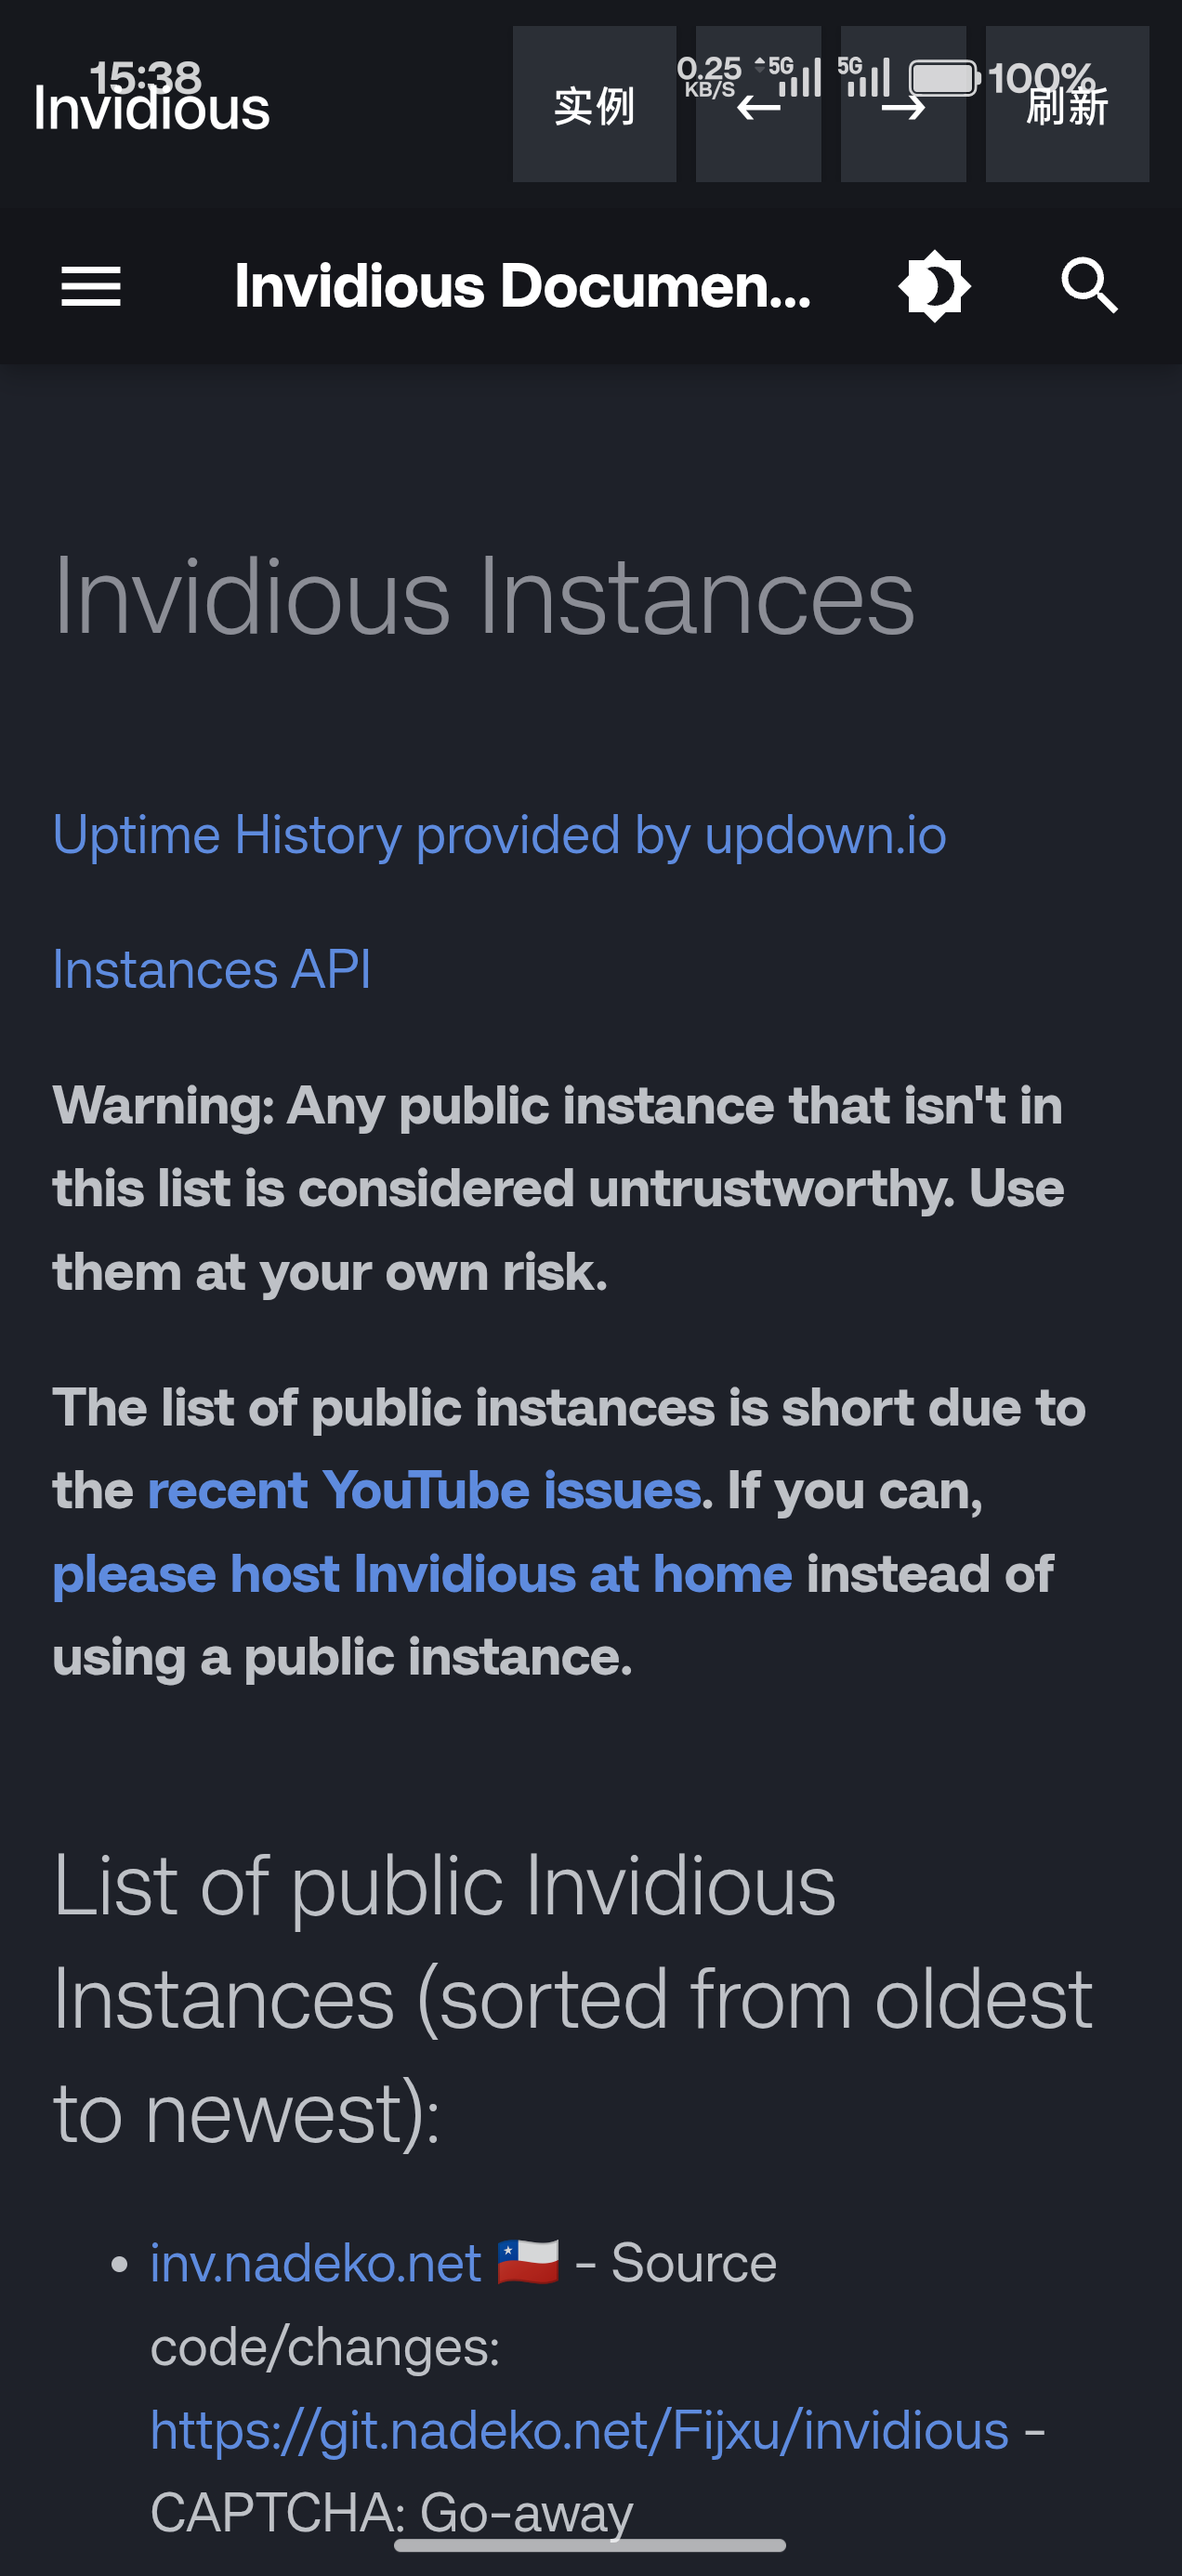
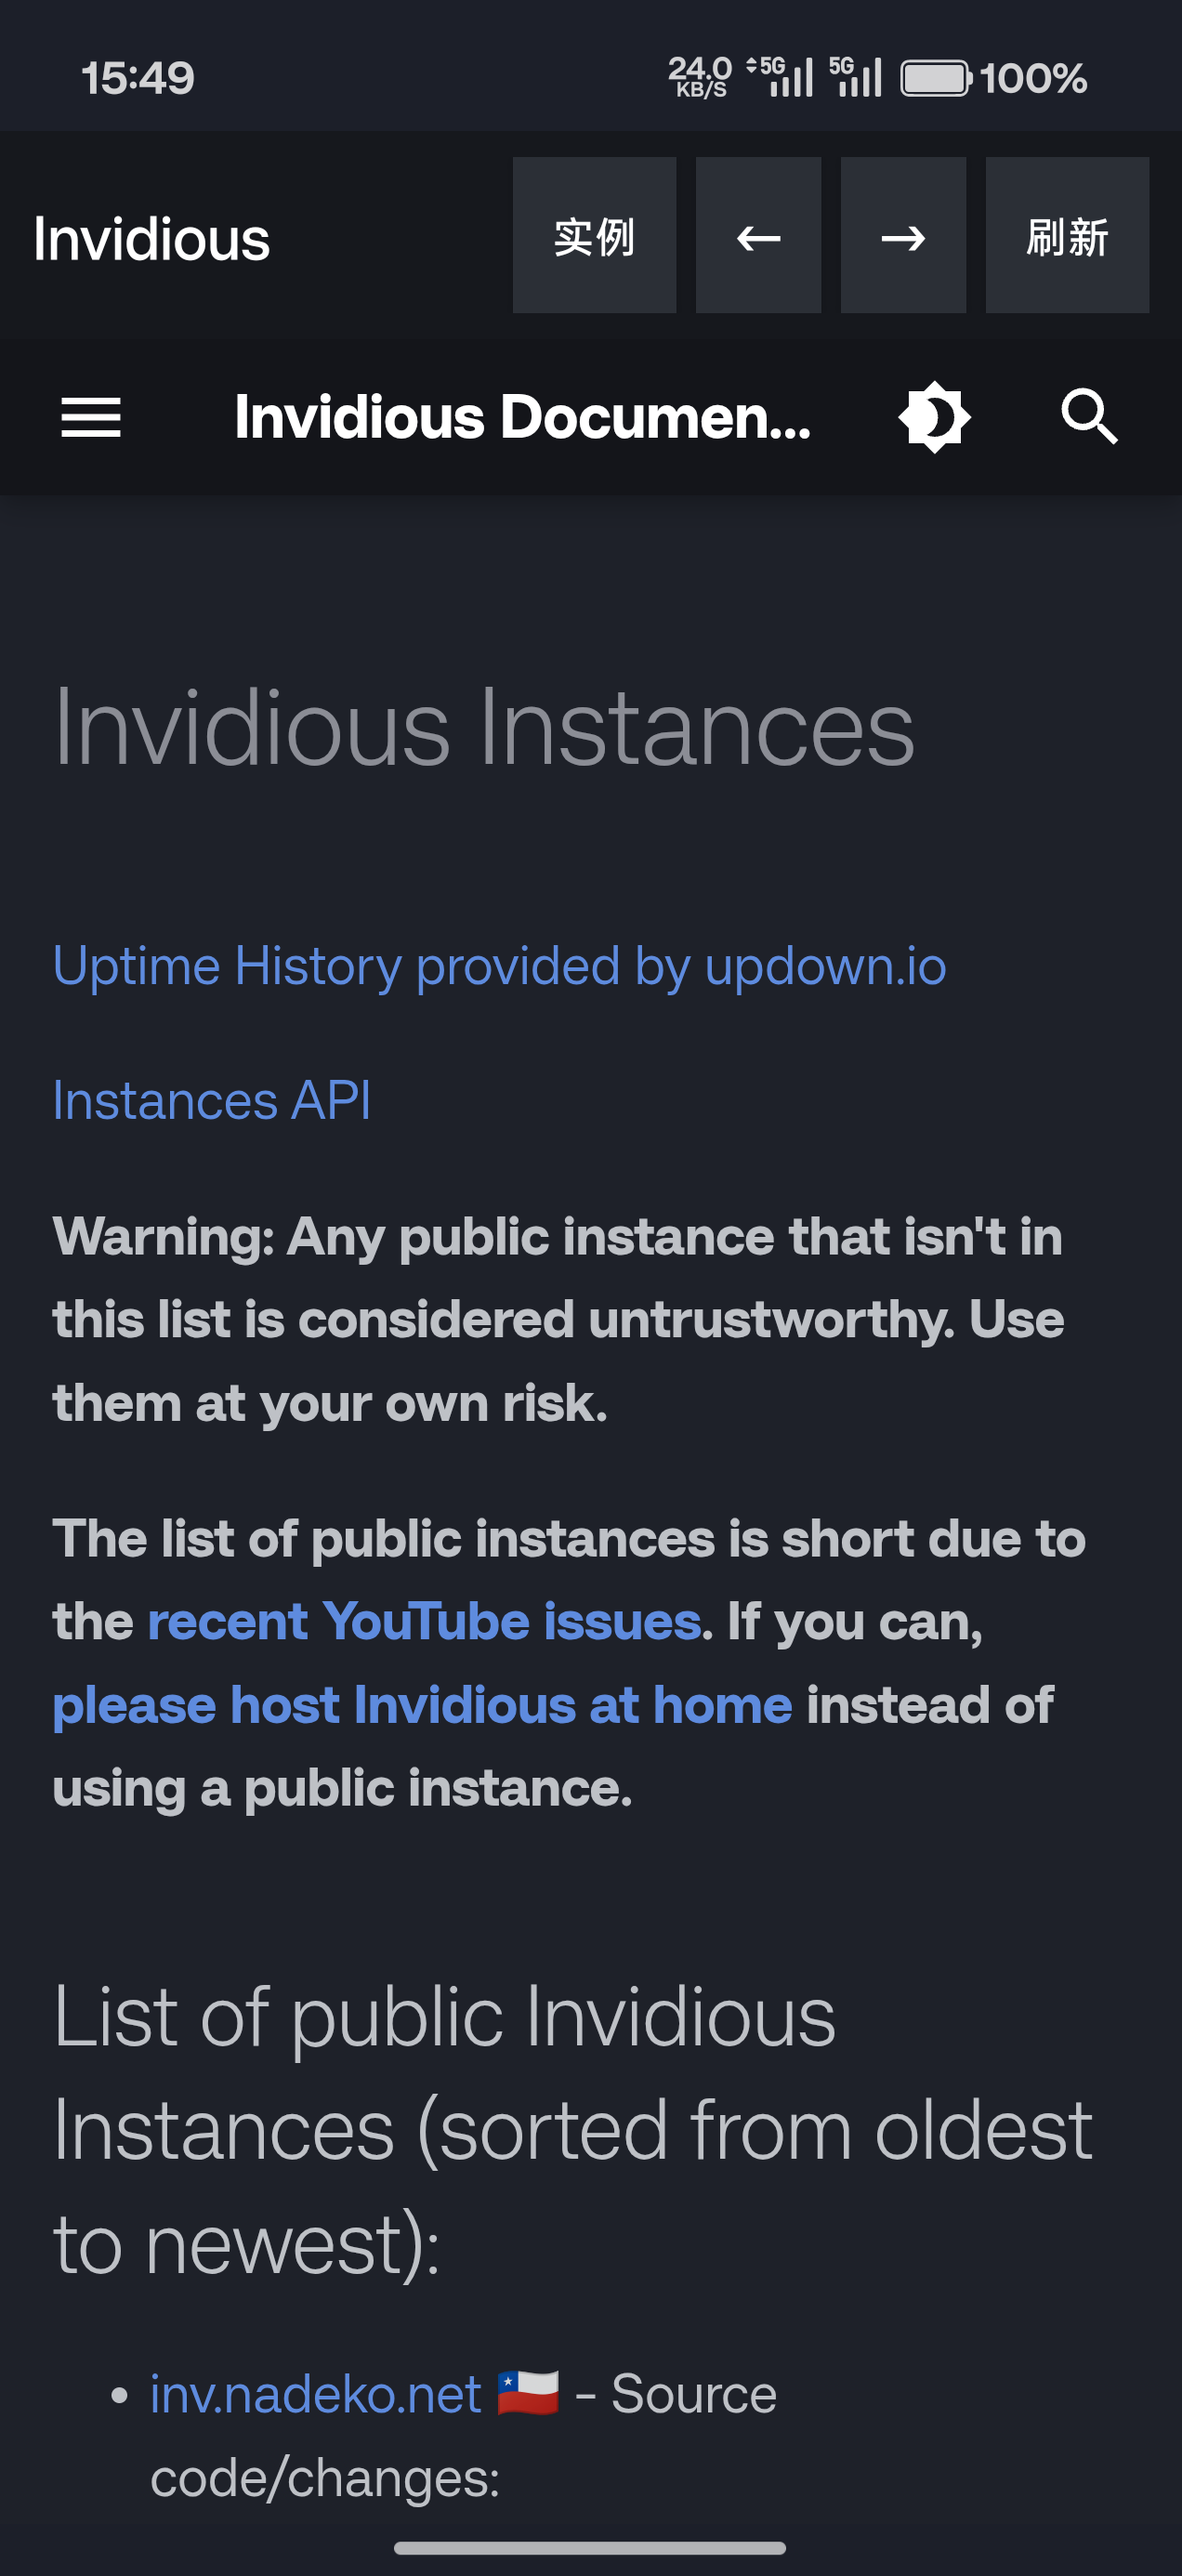
fix(ui): 修复顶部栏与系统状态栏重叠
- 布局根加 fitsSystemWindows，系统为状态栏/导航栏留出占位区
- 新增 AppTheme：statusBarColor/navigationBarColor 与顶部栏同色，视觉无缝
- 真机 PLK110 截图验证：状态栏独立一行，顶部栏不再重叠

diff --git a/README.md b/README.md
@@ -112,8 +112,8 @@ docker compose up -d
 | --- | --- |
 | 路径 | `releases/invidious-webview-v1.0-debug.apk` |
 | 字节数 | 14451 |
[1 lines of base64/hex data omitted]
-| MD5 | `601b1a52487834613a7244fae7fcb264` |
[1 lines of base64/hex data omitted]
+| MD5 | `44eca27ba9f2eb0f3111b9bbabf1e1ab` |
 | 测试机 | OnePlus PLK110（`3B15AP02BZD00000`） |
 | 结果 | `adb install -r` 成功，Activity 启动未崩溃 |
 
